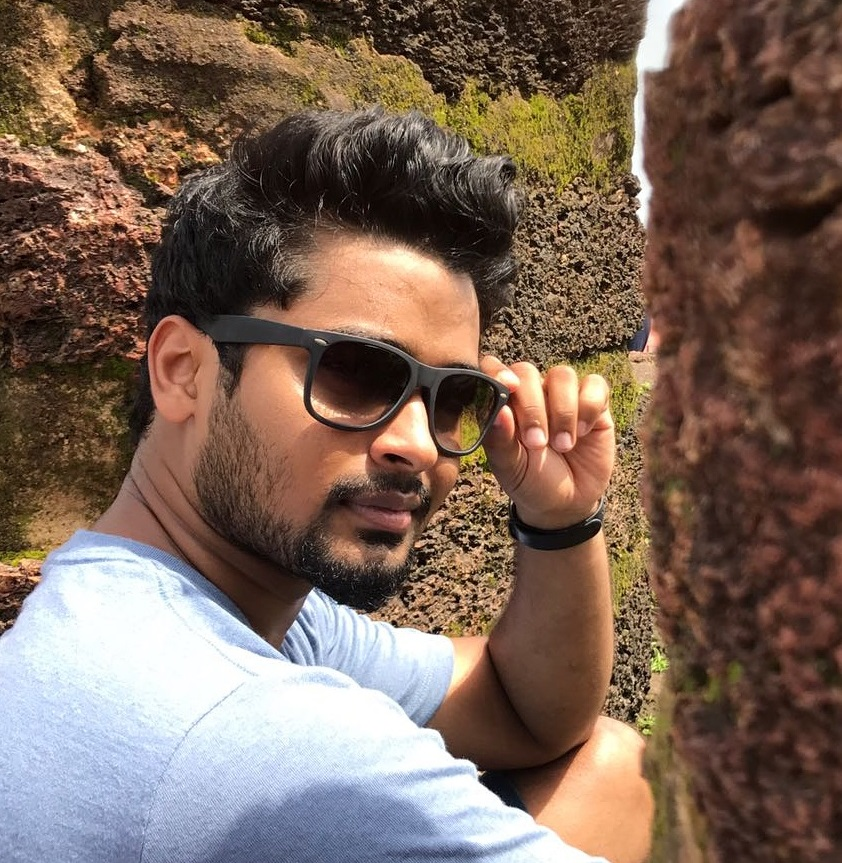
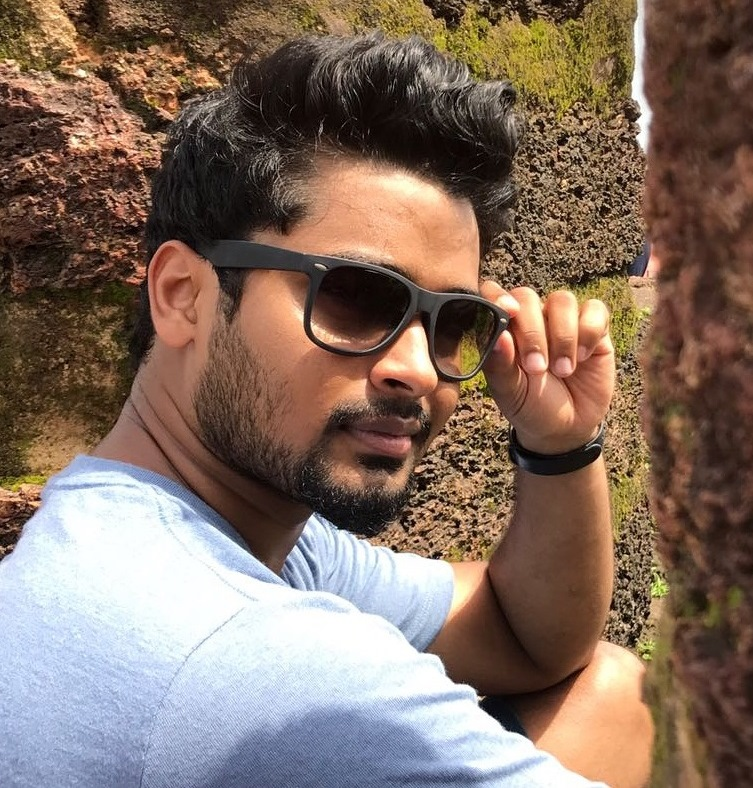
modified home page

diff --git a/src/app/home/home.component.html b/src/app/home/home.component.html
@@ -1,16 +1,22 @@
 <section class="container-fluid" id="my-home">
     <div class="row text-center">
-      <div title="I'm a web developer, primarily working on applications built on AngularJS framework, living in India, Mumbai.">
-        <img id="my-profile-pic" src="assets/images/my-pic.jpg" alt="NEVILLE D'SOUZA - WEB Developer">
-      </div>
       <div id="my-name">{{details.name}}</div>
       <div id="my-designation">{{details.designation + " - "}}
         <img id="my-company-pic" src="assets/images/my-bnpp.png" alt="BNP Paribas">
         <a href="http://indiasolutions.bnpparibas.co.in/"> {{details.companyName}} </a>
+        <p>{{details.description}}</p>
+      </div>
+      <div title="I'm a web developer, primarily working on applications built on AngularJS framework, living in India, Mumbai.">
+        <img id="my-profile-pic" src="assets/images/my-pic.jpg" alt="NEVILLE D'SOUZA - WEB Developer">
+      </div>
+      <div id="my-social-icons">
+        <a href="https://www.facebook.com/neville.dsouza.792"><i class="fa fa-facebook-official fa-2x" aria-hidden="true"></i></a>
+        <a href="https://www.instagram.com/neville.dsouza/"><i class="fa fa-instagram fa-2x" aria-hidden="true"></i></a>
+        <a href="https://www.linkedin.com/in/neville-d-souza-92478773/"><i class="fa fa-linkedin-square fa-2x" aria-hidden="true"></i></a>
       </div>
       <div id="my-contact-info">
         <div>{{details.number}}</div>
-        <a>{{details.email}}</a>
+        <a href="mailto:nevilledsouza28@gmail.com">{{details.email}}</a>
         <div>{{details.dob}}</div>
         <div>{{details.address}}</div>
       </div>

diff --git a/src/app/menu-header/menu-header.component.less b/src/app/menu-header/menu-header.component.less
@@ -3,18 +3,20 @@
       text-transform: uppercase;
       text-align: center;
       border-radius: 0px;
-      border: 2px solid #ffe89c;
+      border: 2px solid #357370;
       border-right: 0px;
       border-left: 0px;
       padding: 0px 5px;
+      min-height: 40px;
+      margin-bottom: 15px;
 
       .navbar-toggle:focus, .navbar-toggle:hover{
-        background-color: #01a8ac;
+        background-color: #f5f5f5;
         border: 1px solid #ffe89c;
       }
 
       .icon-bar{
-        background-color: #ffe89c;
+        background-color: #2f6d6a;
       }
 
       .navbar-collapse {
@@ -29,26 +31,30 @@
         cursor: pointer;
         margin-top: 4px;
 
-        .fa-caret-down {
+        .fa-caret-up {
           position: absolute;
           z-index: 999;
           color: #ffe89c;
           text-align: center;
+          top: 23px;
         }
         a {
           color: #fff;
           letter-spacing: 3px;
           background: none;
+          padding-top: 3px;
+          padding-bottom: 3px;
+          font-size: 11px;
         }
         a:hover {
           color: #01a8ac!important;
-          font-size: 20px;
+          font-size: 14px;
         }
         &.active{
         a {
           color: #01a8ac!important;
-          font-size: 20px;
-          background-color: #ffe89c;
+          font-size: 14px;
+          background-color: #f5f5f5;
           }
         }
       }

diff --git a/src/app/home/home.component.less b/src/app/home/home.component.less
@@ -10,15 +10,13 @@
 
     #my-profile-pic {
       border-radius: 50%;
-      width: 220px;
-      height: 220px;
-      border: 2px solid #ffe89c;
+      width: 150px;
+      height: 150px;
     }
 
     #my-designation {
       font-size: 23px;
       font-weight: 700;
-      margin-bottom: 15px;
       text-transform: uppercase;
       background-color: #2f6d6a;
       opacity: 0.9;
@@ -31,11 +29,17 @@
         color: #fff;
         cursor: pointer;
       }
+      p{
+        letter-spacing: 1px;
+        font-size: 13px;
+        padding: 6px 25%;
+        text-transform: capitalize;
+      }
     }
 
     #my-contact-info {
-      letter-spacing: 2px;
-      font-size: 18px;
+        letter-spacing: 4px;
+        font-size: 15px;
       a{
         color: #fff;
         cursor: pointer;
@@ -44,12 +48,20 @@
         text-transform: capitalize;
       }
     }
+
+    #my-social-icons{
+      padding: 4px;
+      a{
+        color: #fff;
+        margin-right: 8px;
+      }
+    }
     button{
         border-radius: 0px;
-        background-color: #ffe89c;
-        margin-top: 10px;
-        border: 1px solid #999;
+        background-color: #ffffff;
+        margin: 10px 5px;
+        border: 1px solid #33716e;
         text-transform: uppercase;
-        color: black;
+        color: #32706d;
     }
 }

diff --git a/src/styles.less b/src/styles.less
@@ -1,11 +1,27 @@
 /* You can add global styles to this file, and also import other style files */
+/* latin-ext */
+@font-face {
+  font-family: 'Text Me One';
+  font-style: normal;
+  font-weight: 400;
+  src: local('Text Me One'), local('TextMeOne-Regular'), url(./assets/fonts/googleFontsTextMeOne2.woff2) format('woff2');
+  unicode-range: U+0100-024F, U+1E00-1EFF, U+20A0-20AB, U+20AD-20CF, U+2C60-2C7F, U+A720-A7FF;
+}
+/* latin */
+@font-face {
+  font-family: 'Text Me One';
+  font-style: normal;
+  font-weight: 400;
+  src: local('Text Me One'), local('TextMeOne-Regular'), url(./assets/fonts/googleFontsTextMeOne2.woff2) format('woff2');
+  unicode-range: U+0000-00FF, U+0131, U+0152-0153, U+02C6, U+02DA, U+02DC, U+2000-206F, U+2074, U+20AC, U+2212, U+2215;
+}
 body{
     background-color: #3f3f3f;
     background-attachment: fixed;
     background-repeat: no-repeat;
     background-position: 50% 0;
     background-image: url("./assets/images/header-bg.jpg");
-    font-family: monospace;
+    font-family: Text Me One,monospace;
     color: #fff;
     font-weight: bold;
     overflow-x: hidden;

diff --git a/src/app/home/home.component.ts b/src/app/home/home.component.ts
@@ -3,6 +3,7 @@ import { Component, OnInit, ViewEncapsulation} from '@angular/core';
 export interface Details {
   name: string,
   designation: string,
+  description: string,
   companyName: string,
   number: string,
   email: string,
@@ -22,9 +23,10 @@ export class HomeComponent implements OnInit {
   constructor() { }
 
   details: Details = {
-      name: "neville d'souza",
+      name: "Hi, I'm neville d'souza.",
       companyName: "BNP Paribas India Solutions",
       designation: "Software Engineer (Web Developer)",
+      description: "I have diverse set of skills, ranging from HTML5 + CSS3 + Javascript, all the way to Angular JS 1.x/4, Typescript, Core Java and basics of Oracle SQL.",
       number: "+91-9892761957",
       email: "nevilledsouza28@gmail.com",
       dob: "28th may, 1991",

diff --git a/src/app/menu-header/menu-header.component.html b/src/app/menu-header/menu-header.component.html
@@ -12,8 +12,8 @@
       <div class="collapse navbar-collapse" [collapse]="!isExpanded">
         <ul class="nav navbar-nav navbar-justified">
           <li *ngFor="let item of items; let i = index" (click)="activated = i" [class.active]="activated == i">
-            <i class="fa fa-lg fa-caret-down" aria-hidden="true" [class.hidden]="activated != i"></i>
             <a routerLink="{{item.path}}">{{item.label}}</a>
+            <!--<i class="fa fa-lg fa-caret-up" aria-hidden="true" [class.hidden]="activated != i"></i>-->
           </li>
         </ul>
       </div><!-- /.navbar-collapse -->

diff --git a/src/index.html b/src/index.html
@@ -2,7 +2,7 @@
 <html lang="en">
 <head>
   <meta charset="utf-8">
-  <title>MyApp</title>
+  <title>NEVILLE D'SOUZA</title>
   <base href="/">
 
   <meta name="viewport" content="width=device-width, initial-scale=1">
